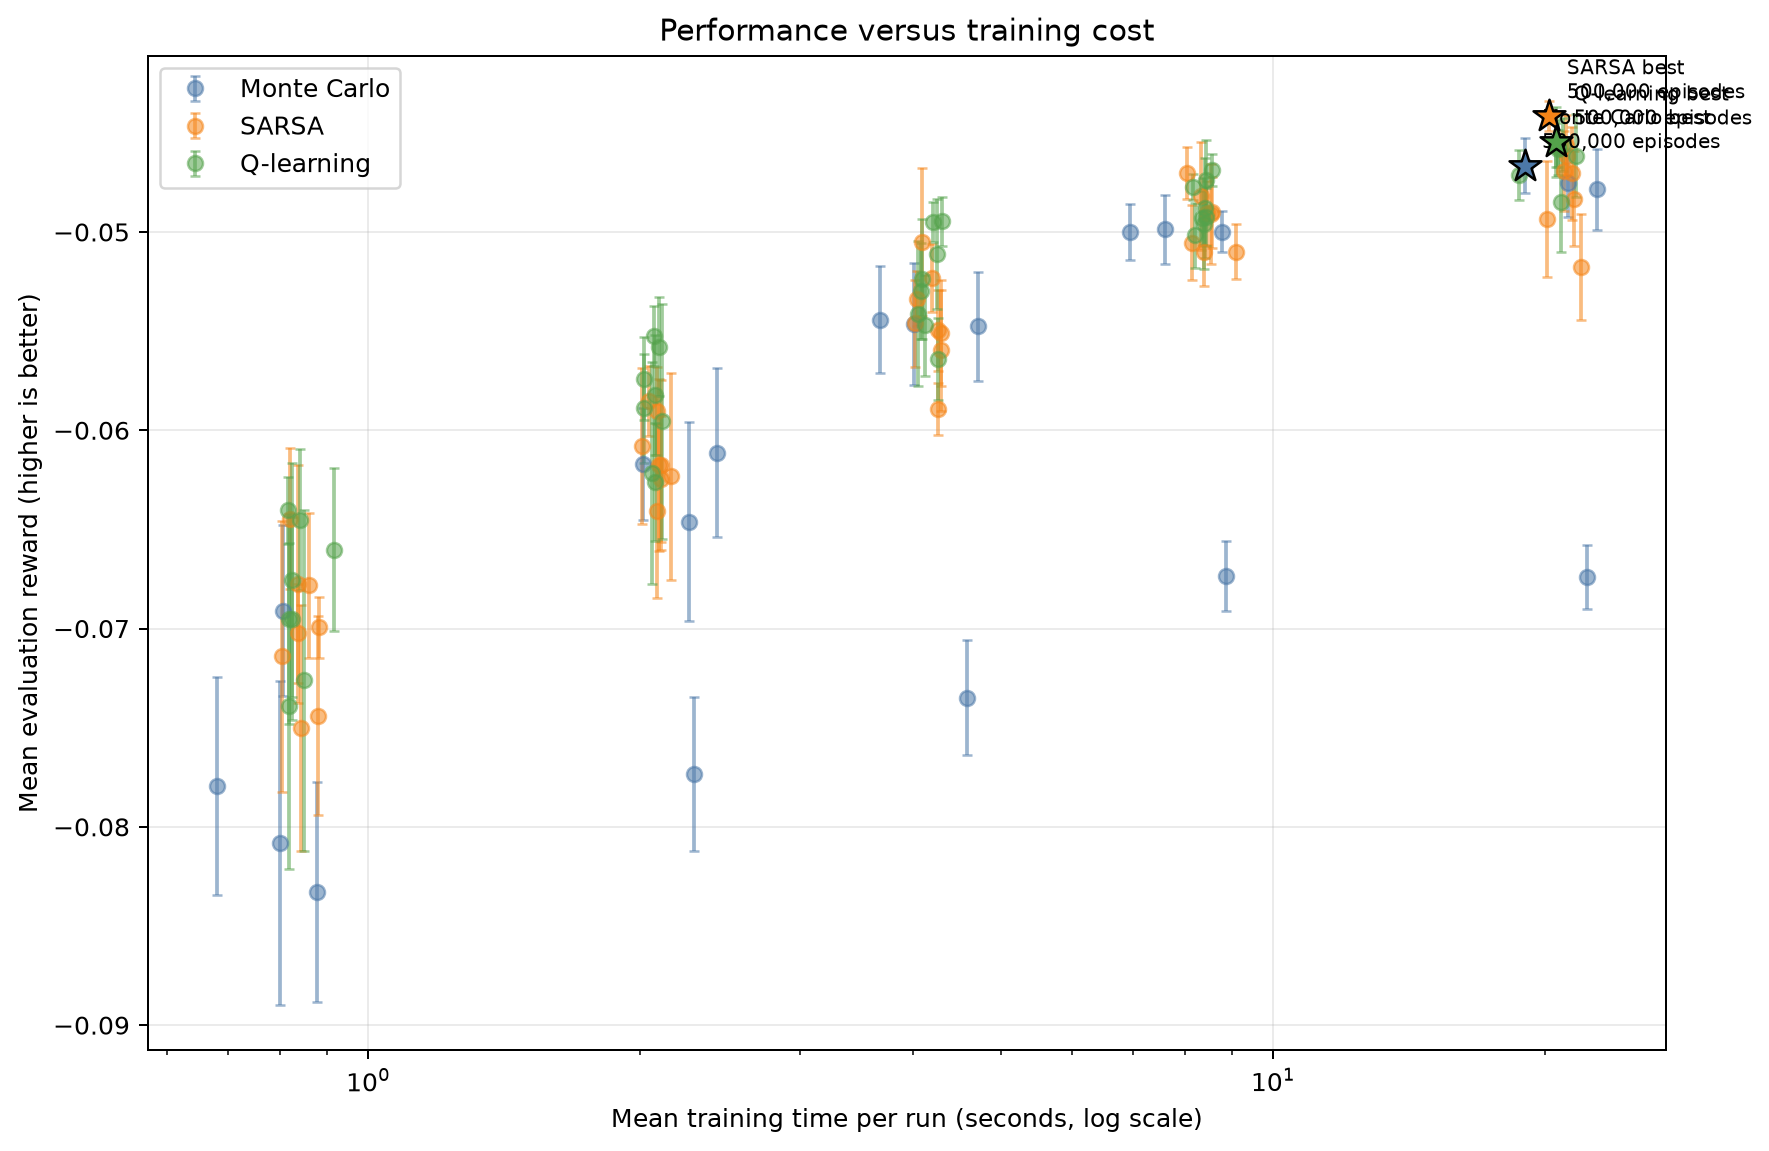
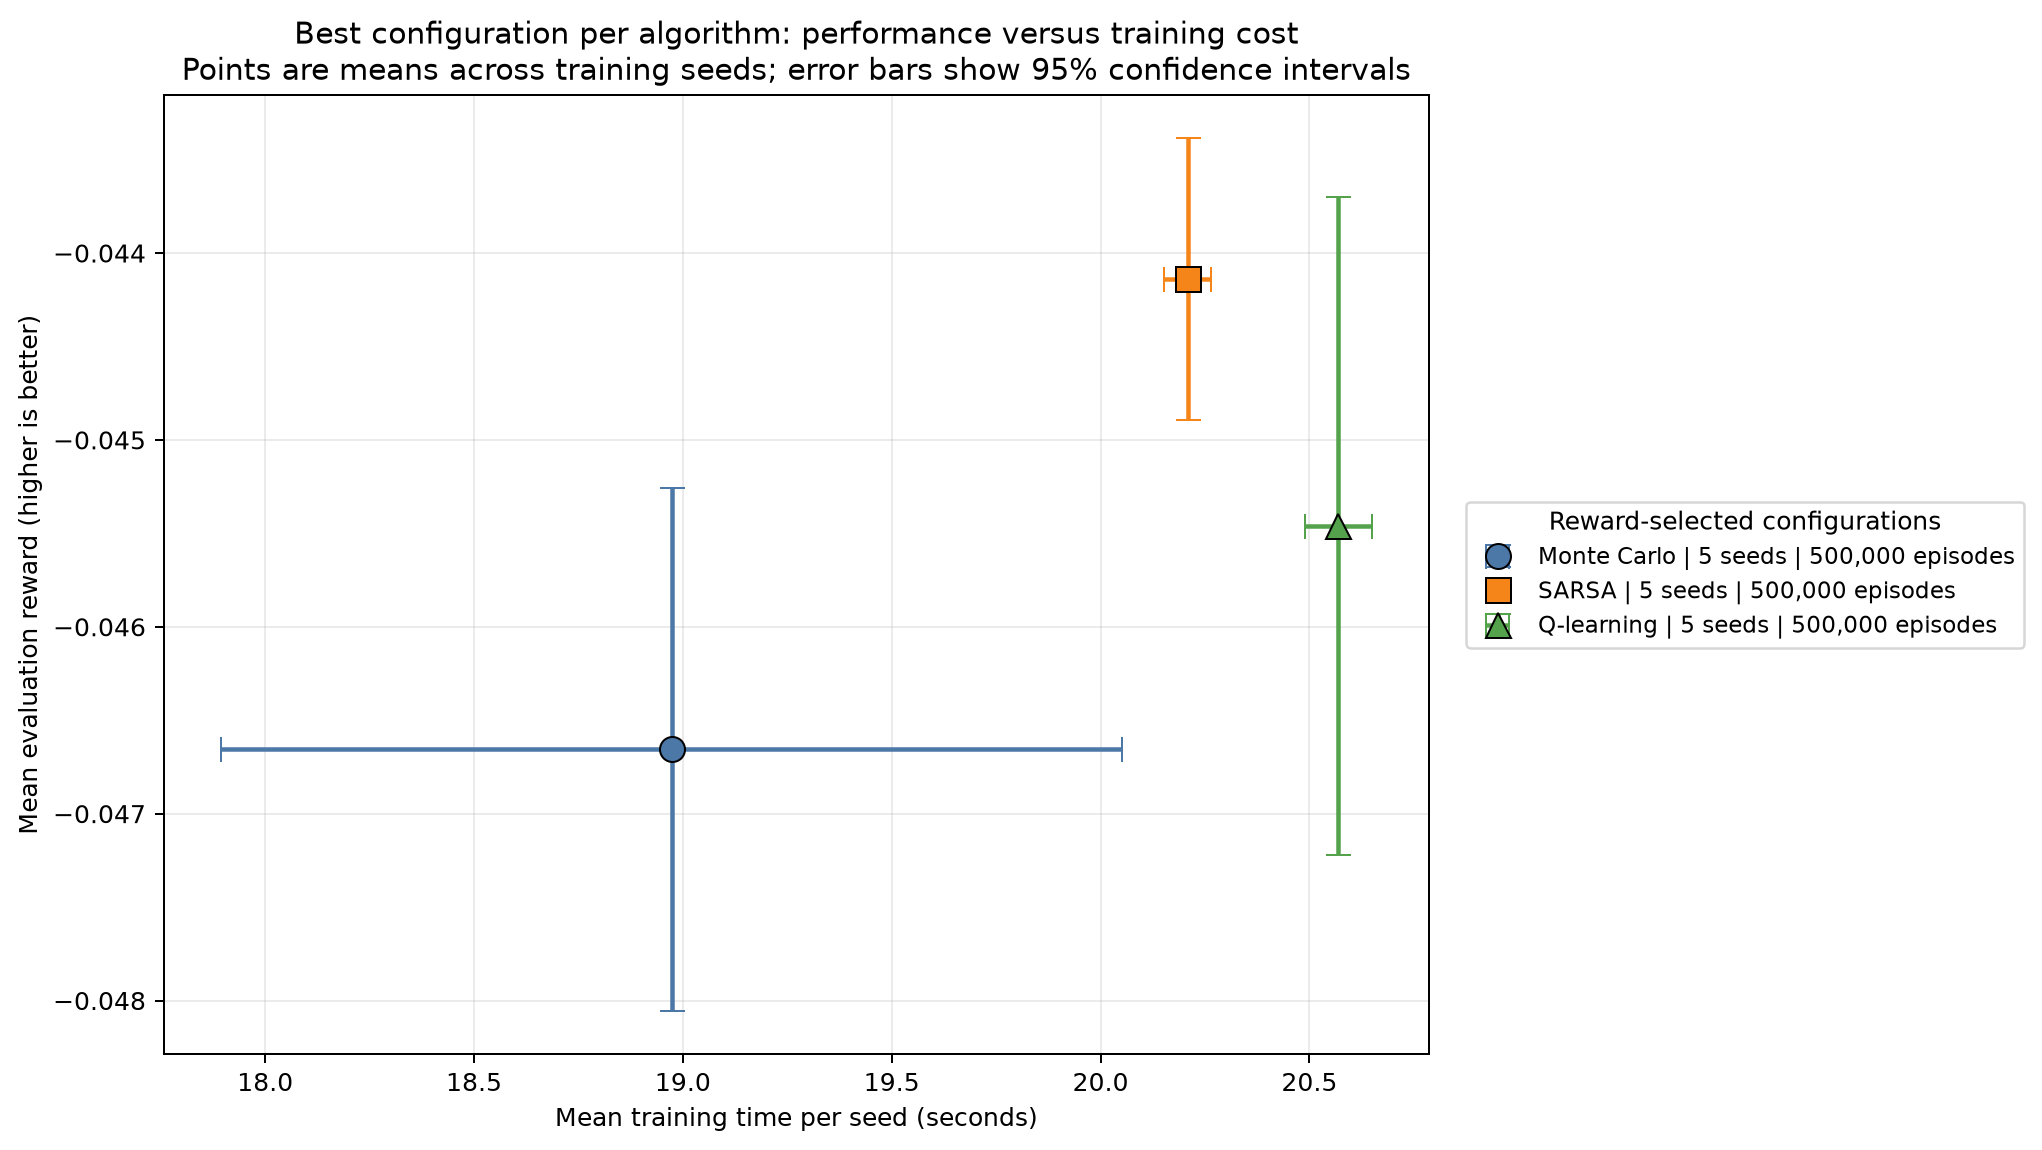
🔧Update analysis report and improve performance vs training time plots with seed-averaged metrics

diff --git a/src/analyze.py b/src/analyze.py
@@ -389,63 +389,58 @@ def plot_performance_vs_training_time(
     output_path: Path,
     baseline: dict[str, Any] | None = None,
 ) -> None:
-    """Plot evaluation reward against mean wall-clock training time."""
+    """Compare each algorithm's best configuration using seed-averaged metrics."""
     plt = _pyplot()
-    figure, axis = plt.subplots(figsize=(10, 6.5))
+    figure, axis = plt.subplots(figsize=(11.5, 6.5))
+    best_by_algorithm = _best_by_algorithm(configurations)
+    markers = {
+        "monte_carlo": "o",
+        "sarsa": "s",
+        "q_learning": "^",
+    }
     for algorithm in ALGORITHM_NAMES:
-        matches = [item for item in configurations if item["algorithm"] == algorithm]
-        if not matches:
+        item = best_by_algorithm.get(algorithm)
+        if item is None:
             continue
         color = COLORS.get(algorithm, "#777777")
-        times = [float(item["training_seconds"]["mean"]) for item in matches]
-        rewards = [float(item["mean_reward"]["mean"]) for item in matches]
-        errors = []
-        for item, reward in zip(matches, rewards, strict=True):
-            lower, upper = _interval(item, "mean_reward")
-            errors.append((reward - lower, upper - reward))
+        time = float(item["training_seconds"]["mean"])
+        reward = float(item["mean_reward"]["mean"])
+        reward_lower, reward_upper = _interval(item, "mean_reward")
+        time_lower, time_upper = _interval(item, "training_seconds")
+        seed_count = int(item["completed_seeds"])
         axis.errorbar(
-            times,
-            rewards,
-            yerr=[
-                [error[0] for error in errors],
-                [error[1] for error in errors],
-            ],
-            fmt="o",
+            [time],
+            [reward],
+            xerr=[[time - time_lower], [time_upper - time]],
+            yerr=[[reward - reward_lower], [reward_upper - reward]],
+            fmt=markers.get(algorithm, "o"),
             color=color,
-            alpha=0.55,
-            capsize=2,
-            markersize=6,
-            label=_algorithm_name(algorithm),
-        )
-
-        best = max(matches, key=lambda item: float(item["mean_reward"]["mean"]))
-        best_time = float(best["training_seconds"]["mean"])
-        best_reward = float(best["mean_reward"]["mean"])
-        axis.scatter(
-            [best_time],
-            [best_reward],
-            color=color,
-            edgecolor="black",
-            linewidth=1,
-            marker="*",
-            s=180,
-            zorder=4,
-        )
-        axis.annotate(
-            f"{_algorithm_name(algorithm)} best\n{int(best['training_episodes']):,} episodes",
-            (best_time, best_reward),
-            xytext=(7, 7),
-            textcoords="offset points",
-            fontsize=8,
+            capsize=5,
+            elinewidth=1.8,
+            markersize=10,
+            markeredgecolor="black",
+            markeredgewidth=0.8,
+            label=(
+                f"{_algorithm_name(algorithm)} | {seed_count} seeds | "
+                f"{int(item['training_episodes']):,} episodes"
+            ),
         )
 
     _plot_baseline(axis, baseline)
-    axis.set_xscale("log")
-    axis.set_xlabel("Mean training time per run (seconds, log scale)")
+    axis.set_xlabel("Mean training time per seed (seconds)")
     axis.set_ylabel("Mean evaluation reward (higher is better)")
-    axis.set_title("Performance versus training cost")
+    axis.set_title(
+        "Best configuration per algorithm: performance versus training cost\n"
+        "Points are means across training seeds; error bars show 95% confidence intervals"
+    )
     axis.grid(alpha=0.25)
-    axis.legend()
+    axis.legend(
+        title="Reward-selected configurations",
+        loc="center left",
+        bbox_to_anchor=(1.02, 0.5),
+        frameon=True,
+        fontsize=9,
+    )
     figure.tight_layout()
     figure.savefig(output_path, dpi=180, bbox_inches="tight")
     plt.close(figure)
@@ -669,8 +664,9 @@ def build_report(summary: dict[str, Any], summary_path: Path) -> str:
             "![Performance versus training cost](performance_vs_training_time.png)",
             "",
             (
-                "This chart relates final evaluation reward to wall-clock training cost. "
-                "Star markers identify the highest-reward configuration for each algorithm."
+                "This chart shows the highest-reward configuration for each algorithm. "
+                "Each point is the mean evaluation reward and mean training time across its "
+                "training seeds; horizontal and vertical bars show their 95% confidence intervals."
             ),
             "",
             "![Training time](training_time.png)",

diff --git a/tests/test_analyze.py b/tests/test_analyze.py
@@ -105,6 +105,7 @@ class AnalyzeTests(unittest.TestCase):
         self.assertIn("sample_efficiency.png", report)
         self.assertIn("training_time.png", report)
         self.assertIn("performance_vs_training_time.png", report)
+        self.assertIn("mean training time across its training seeds", report)
         self.assertIn("stick-on-17", report)
         self.assertIn("Sutton", report)
 

diff --git a/results/sweeps/blackjack_refined_grid_20260820T091421Z/analysis/analysis.md b/results/sweeps/blackjack_refined_grid_20260820T091421Z/analysis/analysis.md
@@ -39,7 +39,7 @@ Each point is a separately trained agent at that episode budget. Higher reward w
 
 ![Performance versus training cost](performance_vs_training_time.png)
 
-This chart relates final evaluation reward to wall-clock training cost. Star markers identify the highest-reward configuration for each algorithm.
+This chart shows the highest-reward configuration for each algorithm. Each point is the mean evaluation reward and mean training time across its training seeds; horizontal and vertical bars show their 95% confidence intervals.
 
 ![Training time](training_time.png)
 
